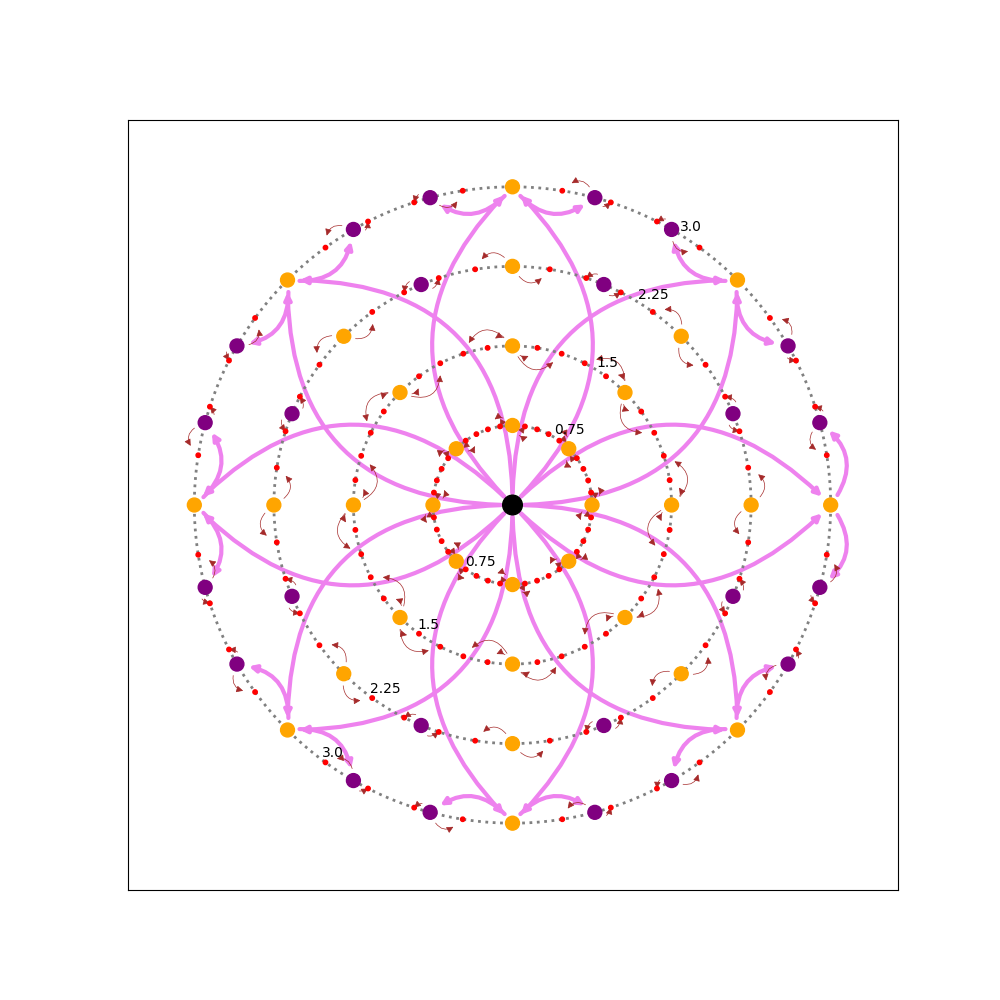
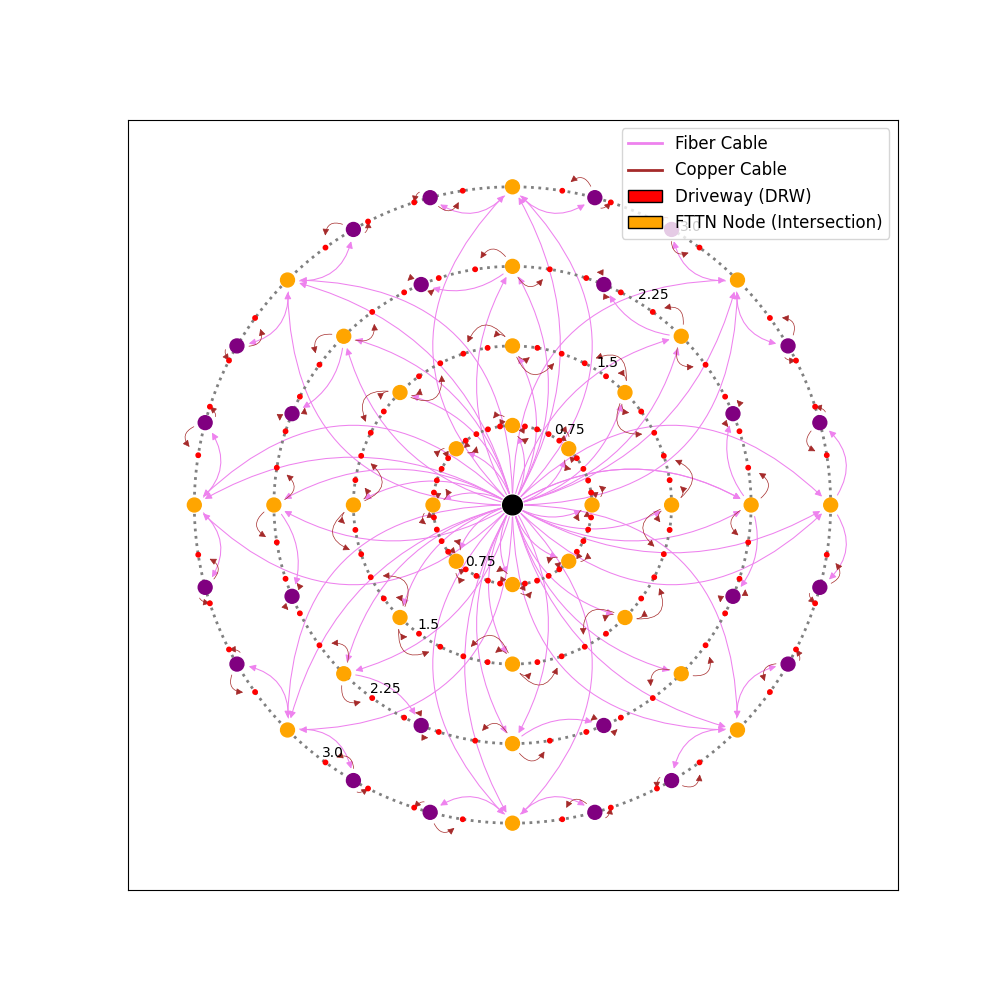
eh

diff --git a/simple_fttn.py b/simple_fttn.py
@@ -1,5 +1,7 @@
 from typing_extensions import Self
 from dataclasses import dataclass
+from matplotlib.lines import Line2D
+from matplotlib.patches import Patch
 import matplotlib.pyplot as plt
 from pandas import DataFrame
 from pprint import pprint
@@ -37,27 +39,29 @@ class Circle:
       s.pos[node1][0] - s.pos[node2][0],
       s.pos[node1][1] - s.pos[node2][1]
     )
-    return dist
+    return round(dist, 3)
   
   def arcdist(s: Self, node1: str, node2: str):
-    x1, y1 = s.pos[node1][0], s.pos[node1][1]
-    x2, y2 = s.pos[node2][0], s.pos[node2][1]
+    # x1, y1 = s.pos[node1][0], s.pos[node1][1]
+    # x2, y2 = s.pos[node2][0], s.pos[node2][1]
 
-    radius = np.hypot(
-      x1 - s.origin_x,
-      x2 - s.origin_y
-    )
-    dot = x1 * x2 + y1 * y2
-    mag1 = math.sqrt(x1**2 + y1**2)
-    mag2 = math.sqrt(x2**2 + y2**2)
-    cos_theta = dot / (mag1 * mag2)
+    # radius = np.hypot(
+    #   x1 - s.origin_x,
+    #   x2 - s.origin_y
+    # )
+    # dot = x1 * x2 + y1 * y2
+    # mag1 = math.sqrt(x1**2 + y1**2)
+    # mag2 = math.sqrt(x2**2 + y2**2)
+    # cos_theta = dot / (mag1 * mag2)
     
-    # Clamp value to avoid floating point issues
-    cos_theta = max(min(cos_theta, 1.0), -1.0)
+    # # Clamp value to avoid floating point issues
+    # cos_theta = max(min(cos_theta, 1.0), -1.0)
     
-    theta = math.acos(cos_theta)  # in radians
-    arc_length = radius * theta
-    return arc_length
+    # theta = math.acos(cos_theta)  # in radians
+    # arc_length = radius * theta
+
+    # return round(arc_length, 3)
+    return s.dist(node1, node2)
   
   def add_intersection_nodes(s: Self):
     num_circles = len(s.radii_km)
@@ -110,6 +114,22 @@ class Circle:
       name2 = f"I_R4_M{i}_2"
       s.pos[name2] = (x2, y2)
       s.G.add_node(name2, pos=(x2, y2))
+  
+  def add_extra_intersections_on_ring(self, ring: int, per_segment: int):
+    radius = self.radii_km[ring - 1]
+    for seg in range(self.segments_per_ring):
+      angle_start = (seg / self.segments_per_ring) * 2 * np.pi
+      angle_end = ((seg + 1) / self.segments_per_ring) * 2 * np.pi
+
+      for i in range(1, per_segment + 1):
+        frac = i / (per_segment + 1)  # e.g., 1/4, 1/2, 3/4 for per_segment = 3
+        mid_angle = angle_start + frac * (angle_end - angle_start)
+        x = radius * np.cos(mid_angle) + self.origin_x
+        y = radius * np.sin(mid_angle) + self.origin_y
+        name = f"I_R{ring}_M{seg}_{i}"
+        self.pos[name] = (x, y)
+        self.G.add_node(name, pos=(x, y))
+
 
   def add_fiber_from_exchange_to_default_ir(s: Self):
     for node in s.G.nodes:
@@ -125,6 +145,7 @@ class Circle:
       dists = {}
       for old_ir_node in ir3_old: dists[old_ir_node] = s.arcdist(old_ir_node, node)
       selected = next(iter(sort_dict_by_values(dists)))
+
       s.G.add_edge(selected, node, length=dists[selected], type='fiber_2')
       s.G.add_edge('Exchange', selected, length=s.dist('Exchange', selected), type='fiber_2')
   
@@ -176,36 +197,48 @@ class Circle:
           s.G.add_node(driveway_name, pos=(road_x, road_y))
           s.pos[driveway_name] = (road_x, road_y)
 
-  # def add_copper_from_ir_to_two_drw(s: Self):
-  #   ir = [n for n in s.G.nodes if n.startswith('I_R')]
-  #   drw_nodes = [n for n in s.G.nodes if n.startswith('DRW_')]
-  #   for ir_node in ir:
-  #     dists = {}
-  #     for drw_node in drw_nodes:
-  #       dists[drw_node] = s.dist(ir_node, drw_node)
-      
-  #     dist_iter = iter(sort_dict_by_values(dists))
-  #     for i in range(2):
-  #       selected = next(dist_iter)
-  #       s.G.add_edge(ir_node, selected, length=s.arcdist(selected, ir_node), type='copper_1')
-
   def add_copper_to_each_drw_from_closest_ir(s: Self):
     ir_nodes = [n for n in s.G.nodes if n.startswith('I_R')]
     drw_nodes = [n for n in s.G.nodes if n.startswith('DRW_')]
 
     for drw_node in drw_nodes:
       dists = {}
+      _dists = []
       for ir_node in ir_nodes:
         dists[ir_node] = s.dist(ir_node, drw_node)
-      selected = next(iter(sort_dict_by_values(dists)))
-      s.G.add_edge(selected, drw_node, length=s.arcdist(selected, ir_node), type='copper_1')
-      # break
+        # print(s.pos[drw_node], s.pos[ir_node], dists[ir_node])
 
+      sorted_dists = sort_dict_by_values(dists)
+      selected = next(iter(sorted_dists))
+      s.G.add_edge(selected, drw_node, length=s.dist(selected, drw_node), type='copper_1')
+  
   def check_if_all_driveways_connected(s: Self):
     drw_nodes = [n for n in s.G.nodes if n.startswith('DRW_')]
     out = []
     for drw_node in drw_nodes: out += [nx.has_path(s.G, 'Exchange', drw_node)]
     return all(out)
+  
+  def compute_total_fiber_nodes(s: Self):
+    return len([node for node in s.G.nodes if node.startswith('I_R')])
+  
+  def compute_total_fiber_in_km(s: Self):
+    return sum([d.get('length') for u, v, d in s.G.edges(data=True) if d.get('type').startswith('fiber')])
+  
+  def compute_total_copper_in_km(s: Self):
+    return sum([d.get('length') for u, v, d in s.G.edges(data=True) if d.get('type').startswith('copper')])
+  
+  def estimate_speed(s: Self, x: float):
+    x = x * 1000
+    base_speed = 300.0   # Mbps at 0m
+    k = math.log(6) / 400.0  # ensures speed(400m) ≈ 50 Mbps
+    return base_speed * math.exp(-k * x)
+  
+  def estimate_speed_per_drw(s: Self):
+    copper_edge_info = [(v, d.get('length')) for u, v, d in s.G.edges(data=True) if d.get('type').startswith('copper')]
+    speeds = {}
+    for drw, dist in copper_edge_info:
+      speeds[drw] = (s.estimate_speed(dist))
+    return speeds
 
   def plot_dotted_circle(s: Self, radius, colour='blue'):
     theta = np.linspace(0, 2 * np.pi, 300)
@@ -240,11 +273,13 @@ class Circle:
       width=width,
       arrowstyle='-|>'
     )
+    edge_labels = {(u, v): round(d['length'], 1) for u, v, d in c.G.edges(data=True) if 'length' in d and d.get('type') == edge_type}
+    # nx.draw_networkx_edge_labels(c.G, c.pos, edge_labels=edge_labels, font_size=7, label_pos=0.2)
 
   def plot(s: Self):
     labels = {}
     for node in s.G.nodes:
-      labels[node] = node
+      labels[node] = [float(round(c.pos[node][0], 3)), float(round(c.pos[node][1], 3))]
 
     plt.figure(figsize=(10, 10))
     plt.gca().set_aspect('equal', adjustable='box')
@@ -265,11 +300,23 @@ class Circle:
       else: node_sizes.append(10)
 
     nx.draw_networkx_nodes(c.G, c.pos, node_size=node_sizes, node_color=node_colours)
-    # s.plot_edges('fiber_1', 'orange', 'arc3,rad=0.3')
-    # s.plot_edges('fiber_2', 'violet', 'arc3,rad=-0.3')
-    c.plot_edges('fiber_3', 'violet', 'arc3,rad=0.5')
-    c.plot_edges('fiber_4', 'violet', 'arc3,rad=-0.5')
-    c.plot_edges('copper_1', 'brown', 'arc3,rad=0.8', width=0.5)
+    # nx.draw_networkx_labels(c.G, c.pos, labels, font_size=10)
+    s.plot_edges('fiber_1', 'violet', 'arc3,rad=0.3', width=0.75)
+    s.plot_edges('fiber_2', 'violet', 'arc3,rad=-0.3', width=0.75)
+    c.plot_edges('fiber_3', 'violet', 'arc3,rad=0.5', width=0.75)
+    c.plot_edges('fiber_4', 'violet', 'arc3,rad=-0.5', width=0.75)
+    c.plot_edges('copper_1', 'brown', 'arc3,rad=1.0', width=0.5)
+
+
+    legend_elements = [
+    Line2D([0], [0], color='violet', lw=2, label='Fiber Cable'),
+    Line2D([0], [0], color='brown', lw=2, label='Copper Cable'),
+    Patch(facecolor='red', edgecolor='black', label='Driveway (DRW)'),
+    Patch(facecolor='orange', edgecolor='black', label='FTTN Node (Intersection)')
+]
+
+    # Add legend to the plot
+    plt.legend(handles=legend_elements, loc='upper right', fontsize='large')
     plt.savefig('simple_fttn.png')
     plt.show()
 
@@ -278,13 +325,19 @@ if __name__ == '__main__':
   c = Circle()
   c.add_intersection_nodes()
   c.add_fiber_from_exchange_to_default_ir()
-  c.add_one_extra_intersection_node_at_third_ring()
-  c.add_two_extra_intersection_nodes_at_fourth_ring()
+  c.add_extra_intersections_on_ring(3, 1)
+  c.add_extra_intersections_on_ring(4, 2)
   c.add_fiber_from_exchange_to_extra_ir_in_third_ring()
   c.add_fiber_from_exchange_to_extra_ir_in_fourth_ring()
   c.add_driveway_nodes()
   c.add_copper_to_each_drw_from_closest_ir()
+
+  
   if c.check_if_all_driveways_connected():
+  
     print('Congratulations !!!!', 'All driveways have connection to exchange')
 
-  # c.plot()
+  print('total fiber in km: ', c.compute_total_fiber_in_km())
+  print('total copper in km: ', c.compute_total_copper_in_km())
+  pprint(c.estimate_speed_per_drw())
+  c.plot()
